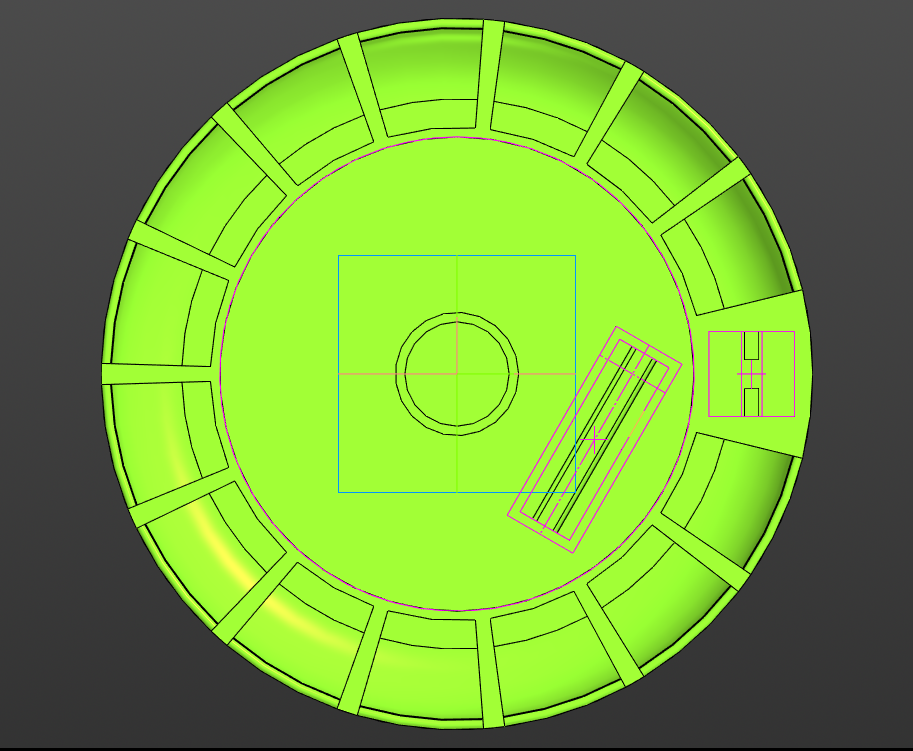
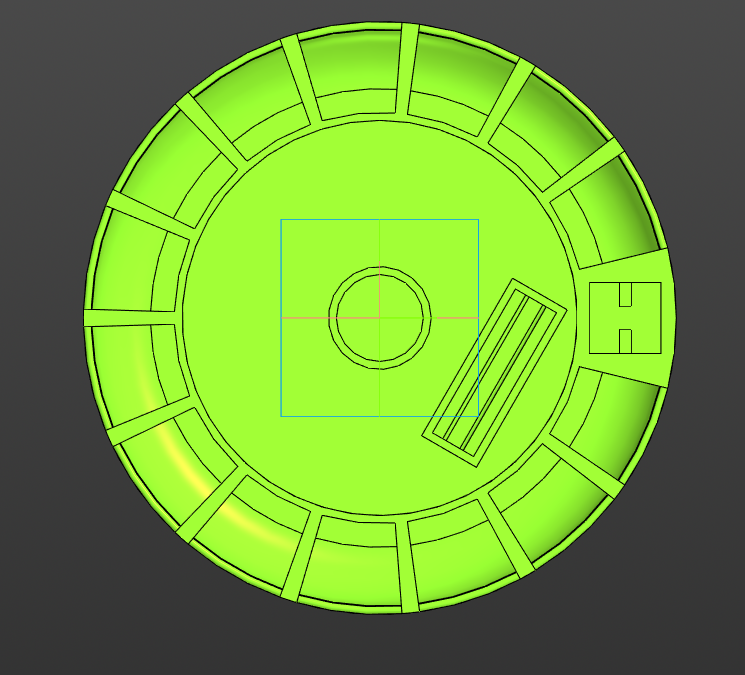
Construct documentation

Changed region(s): [[0.0, 0.0, 1.0, 1.0]]

diff --git a/hardware/README.md b/hardware/README.md
@@ -9,5 +9,5 @@
 
 | Ячейки                                                                                                                                     | Крышка                                                                                                                                                     | Зарядный бокс                                                                                                                                                               |
 |--------------------------------------------------------------------------------------------------------------------------------------------|------------------------------------------------------------------------------------------------------------------------------------------------------------|-----------------------------------------------------------------------------------------------------------------------------------------------------------------------------|
-| <p align="center"><img src="media/Cells_model.png" alt="Cells of SOTA" width="200px"></p>                                                  | <p align="center"><img src="media/Cat_model.png" alt="Cat of SOTA" width="200px"></p>                                                                      | <p align="center"><img src="media/ChargingBox_model.png" alt="Charging box of SOTA" width="200px"></p>                                                                      |
+| <p align="center"><img src="media/Cells_model.png" alt="Cells of SOTA" width="160px"></p>                                                  | <p align="center"><img src="media/Cap_model.png" alt="Cap of SOTA" width="160px"></p>                                                                      | <p align="center"><img src="media/ChargingBox_model.png" alt="Charging box of SOTA" width="160px"></p>                                                                      |
 | Всего корпус таблетницы содержит **15 ячеек**, одна изкоторых является заглушкой. Размещение препаратов в ячейках может быть произвольным. | Крышка предназначена для выдачи препаратов в соответствии с **расписанием**, настроенным ранее в приложении, так, крышка проворачивается на нужную ячейку. | Зарядный бокс выполняет скорее **демонстративную функцию**. За ним находится зарядная плата с разъёмом **Type-C**, позволяющим программировать и заряжать умную таблетницу. |
